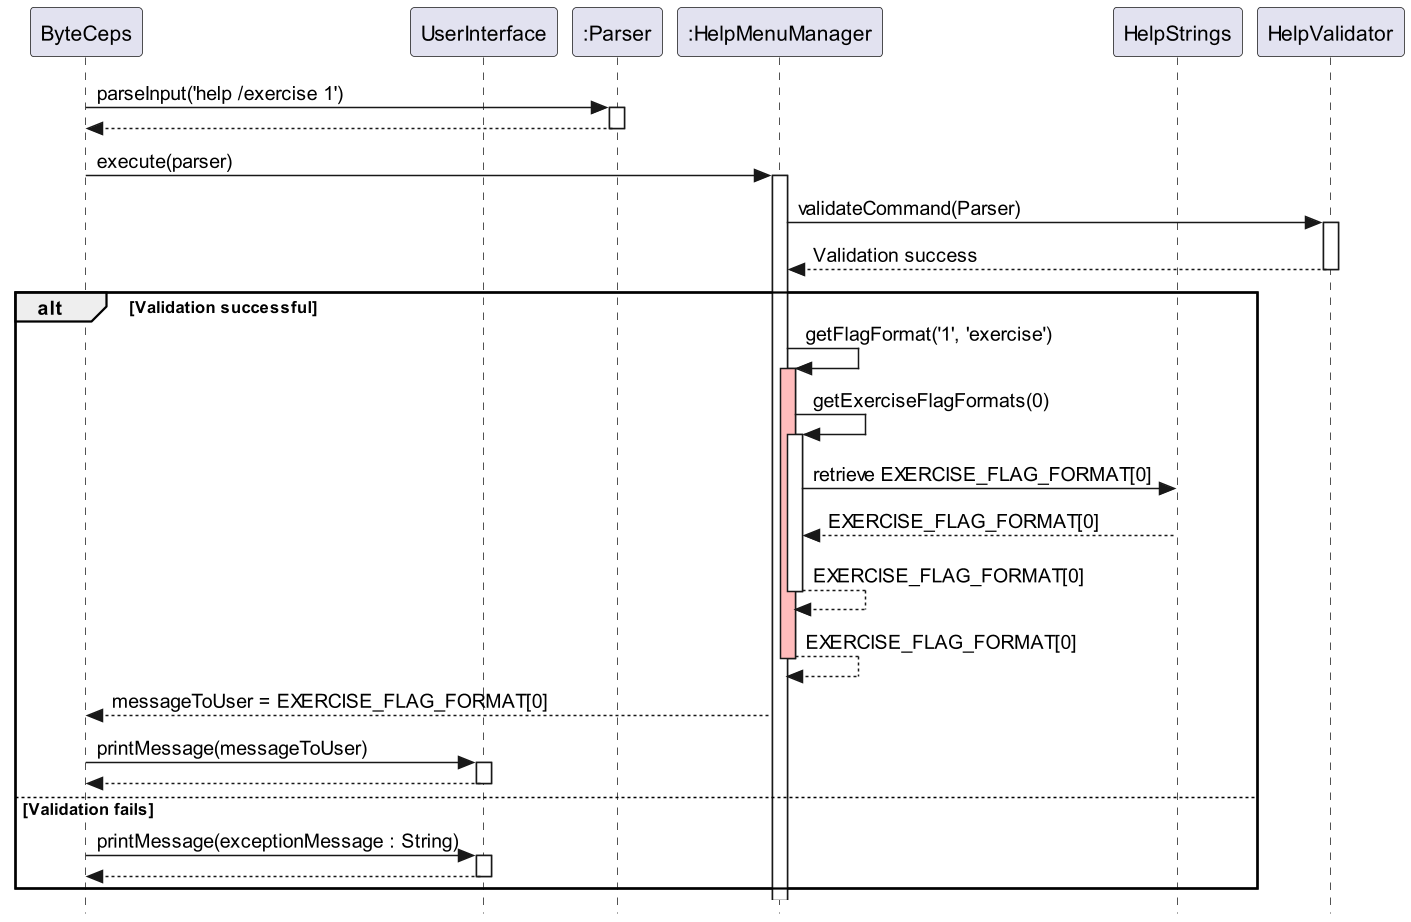
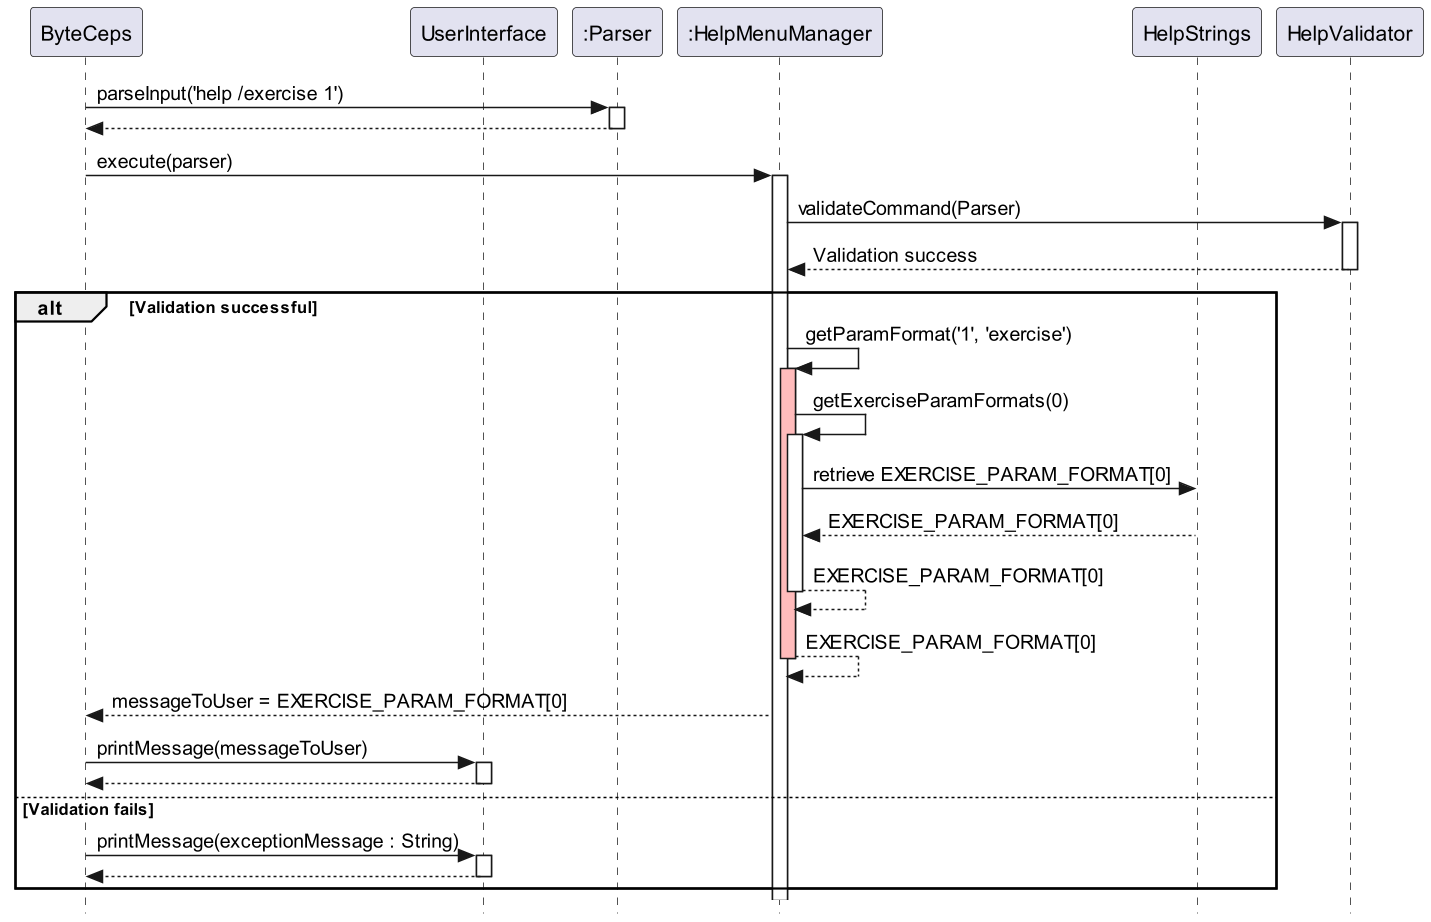
Change incorrect usage of 'flag' to parameter, update sequence diagrams

diff --git a/src/main/java/byteceps/processing/HelpMenuManager.java b/src/main/java/byteceps/processing/HelpMenuManager.java
@@ -30,9 +30,9 @@ public class HelpMenuManager {
 
 
     /**
-     * Displays either (1) a command help menu (if no valid numerical flag is provided) or (2) the specific
+     * Displays either (1) a command help menu (if no valid numerical parameter is provided) or (2) the specific
      * command format for a specific BYTE-CEPS functionality, which corresponds to the help menu entry specified by
-     * the provided valid numerical flag.
+     * the provided valid numerical parameter.
      *
      * @param parser Parser containing required user input.
      * @return String detailing either an entire command help menu or a specific command formatting.
@@ -47,7 +47,7 @@ public class HelpMenuManager {
             return generateAllActions(commandToShow);
         }
         String flag = parser.getActionParameter();
-        return getFlagFormat(flag, commandToShow);
+        return getParamFormat(flag, commandToShow);
 
     }
 
@@ -84,24 +84,24 @@ public class HelpMenuManager {
 
     /**
      * Returns a String containing the specific command format for a specific BYTE-CEPS functionality, corresponding
-     * to the help menu entry specified by the user-provided numerical flag.
+     * to the help menu entry specified by the user-provided numerical parameter.
      *
-     * @param userFlag String corresponding to numerical position of help menu entry of user-desired command format.
+     * @param userParam String corresponding to numerical position of help menu entry of user-desired command format.
      * @param commandType String specifying which command help menu to find command formatting from.
-     * @return String containing the specific command format corresponding to provided flag.
+     * @return String containing the specific command format corresponding to provided parameter.
      */
-    private String getFlagFormat(String userFlag,String commandType) {
+    private String getParamFormat(String userParam, String commandType) {
         try {
-            int flagChoice = Integer.parseInt(userFlag);
-            int flagIndex = flagChoice - 1;
+            int paramChoice = Integer.parseInt(userParam);
+            int paramIndex = paramChoice - 1;
 
             switch (commandType) {
             case CommandStrings.COMMAND_EXERCISE:
-                return getExerciseFlagFormats(flagIndex);
+                return getExerciseParamFormats(paramIndex);
             case CommandStrings.COMMAND_WORKOUT:
-                return getWorkoutFlagFormats(flagIndex);
+                return getWorkoutParamFormats(paramIndex);
             case CommandStrings.COMMAND_PROGRAM:
-                return getProgramFlagFormats(flagIndex);
+                return getProgramParamFormats(paramIndex);
             default:
                 return "";
             }
@@ -110,14 +110,14 @@ public class HelpMenuManager {
         }
     }
 
-    private String getExerciseFlagFormats(int index) {
-        return HelpStrings.EXERCISE_FLAG_FORMAT[index];
+    private String getExerciseParamFormats(int index) {
+        return HelpStrings.EXERCISE_PARAM_FORMAT[index];
     }
-    private String getWorkoutFlagFormats(int index) {
-        return HelpStrings.WORKOUT_FLAG_FORMAT[index];
+    private String getWorkoutParamFormats(int index) {
+        return HelpStrings.WORKOUT_PARAM_FORMAT[index];
     }
-    private String getProgramFlagFormats(int index) {
-        return HelpStrings.PROGRAM_FLAG_FORMAT[index];
+    private String getProgramParamFormats(int index) {
+        return HelpStrings.PROGRAM_PARAM_FORMAT[index];
     }
 
 }

diff --git a/src/main/java/byteceps/ui/strings/HelpStrings.java b/src/main/java/byteceps/ui/strings/HelpStrings.java
@@ -17,7 +17,7 @@ public class HelpStrings {
         "(4) list all existing exercises"
     };
 
-    public static final String[] EXERCISE_FLAG_FORMAT = {
+    public static final String[] EXERCISE_PARAM_FORMAT = {
         "exercise /add <EXERCISE_NAME [string]>",
         "exercise /delete <EXERCISE_NAME [string]>",
         "exercise /edit <OLD_EXERCISE_NAME [string]> /to <NEW_EXERCISE_NAME [string]>",
@@ -34,7 +34,7 @@ public class HelpStrings {
         "(6) list all exercises in a given workout plan"
     };
 
-    public static final String[] WORKOUT_FLAG_FORMAT = {
+    public static final String[] WORKOUT_PARAM_FORMAT = {
         "workout /create <WORKOUT_PLAN_NAME [string]>",
         "workout /delete <WORKOUT_PLAN_NAME [string]>",
         "workout /list",
@@ -61,7 +61,7 @@ public class HelpStrings {
         "Friday/Fri", System.lineSeparator(), "Saturday/Sat", System.lineSeparator(),
         "Sunday/Sun");
 
-    public static final String[] PROGRAM_FLAG_FORMAT = {
+    public static final String[] PROGRAM_PARAM_FORMAT = {
         "program /assign <WORKOUT_PLAN_NAME [string]> /to <DAY [string]>" + DAY_STRING,
         "program /today",
         "program /list",

diff --git a/docs/team/lwachtel1.md b/docs/team/lwachtel1.md
@@ -10,7 +10,7 @@ BYTE-CEPS is written in Java, and has approximately 5.6 kLoC.
 
 ### Features
 + **Help menu**:  Shows the user how to correctly format each possible BYTE-CEPS command.
-    + What it does: Upon initial program execution, a message detailing the commands to access the help menu is displayed. A user can enter 1 of these commands to view 3 different lists, each one with numbered items describing the functionalities associated with a category tracked by BYTE-CEPS. They can then see a given functionality's specific command formatting by entering the previous command along with the number from its help menu list position as a flag.
+    + What it does: Upon initial program execution, a message detailing the commands to access the help menu is displayed. A user can enter 1 of these commands to view 3 different lists, each one with numbered items describing the functionalities associated with a category tracked by BYTE-CEPS. They can then see a given functionality's specific command formatting by entering the previous command along with the number from its help menu list position as a parameter.
     + Justification: The user can make full use of BYTE-CEPS with easy access to guidance for its commands. If they enter a command incorrectly, they can quickly check the exact formatting in-program.
     + Credits: I wrote the initial HelpMenuManager class, and **_joshualeejunyi_** & **_pqienso_** refined my code. 
 
